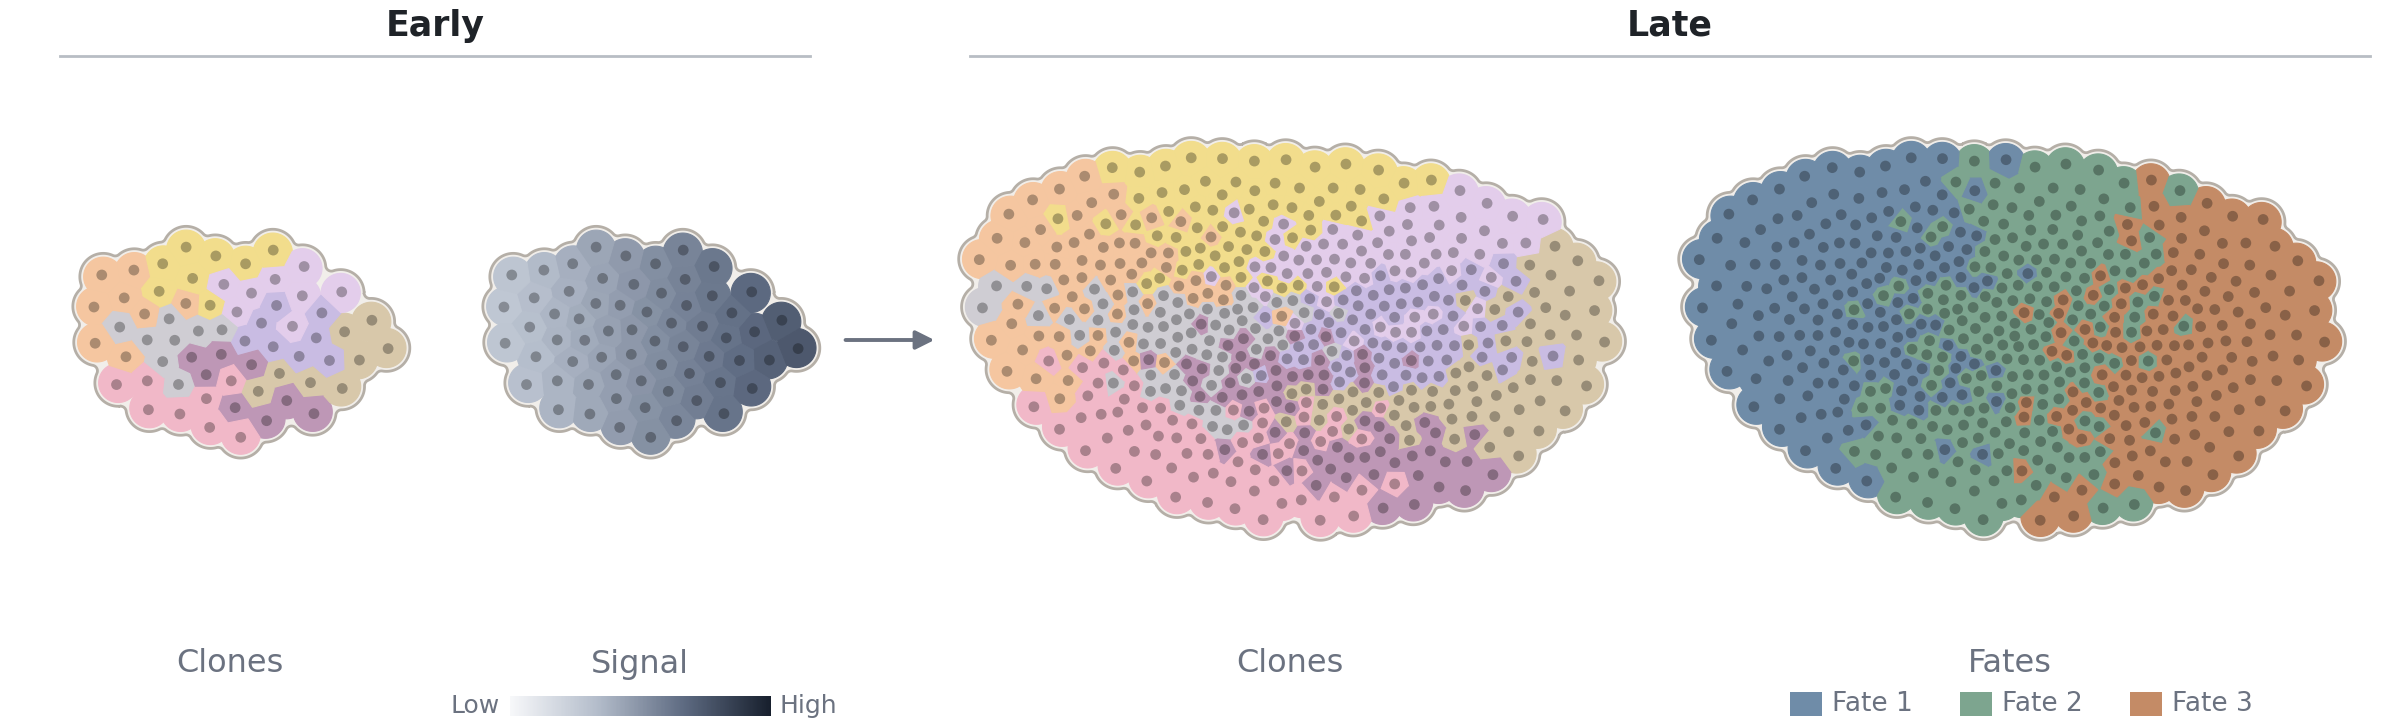
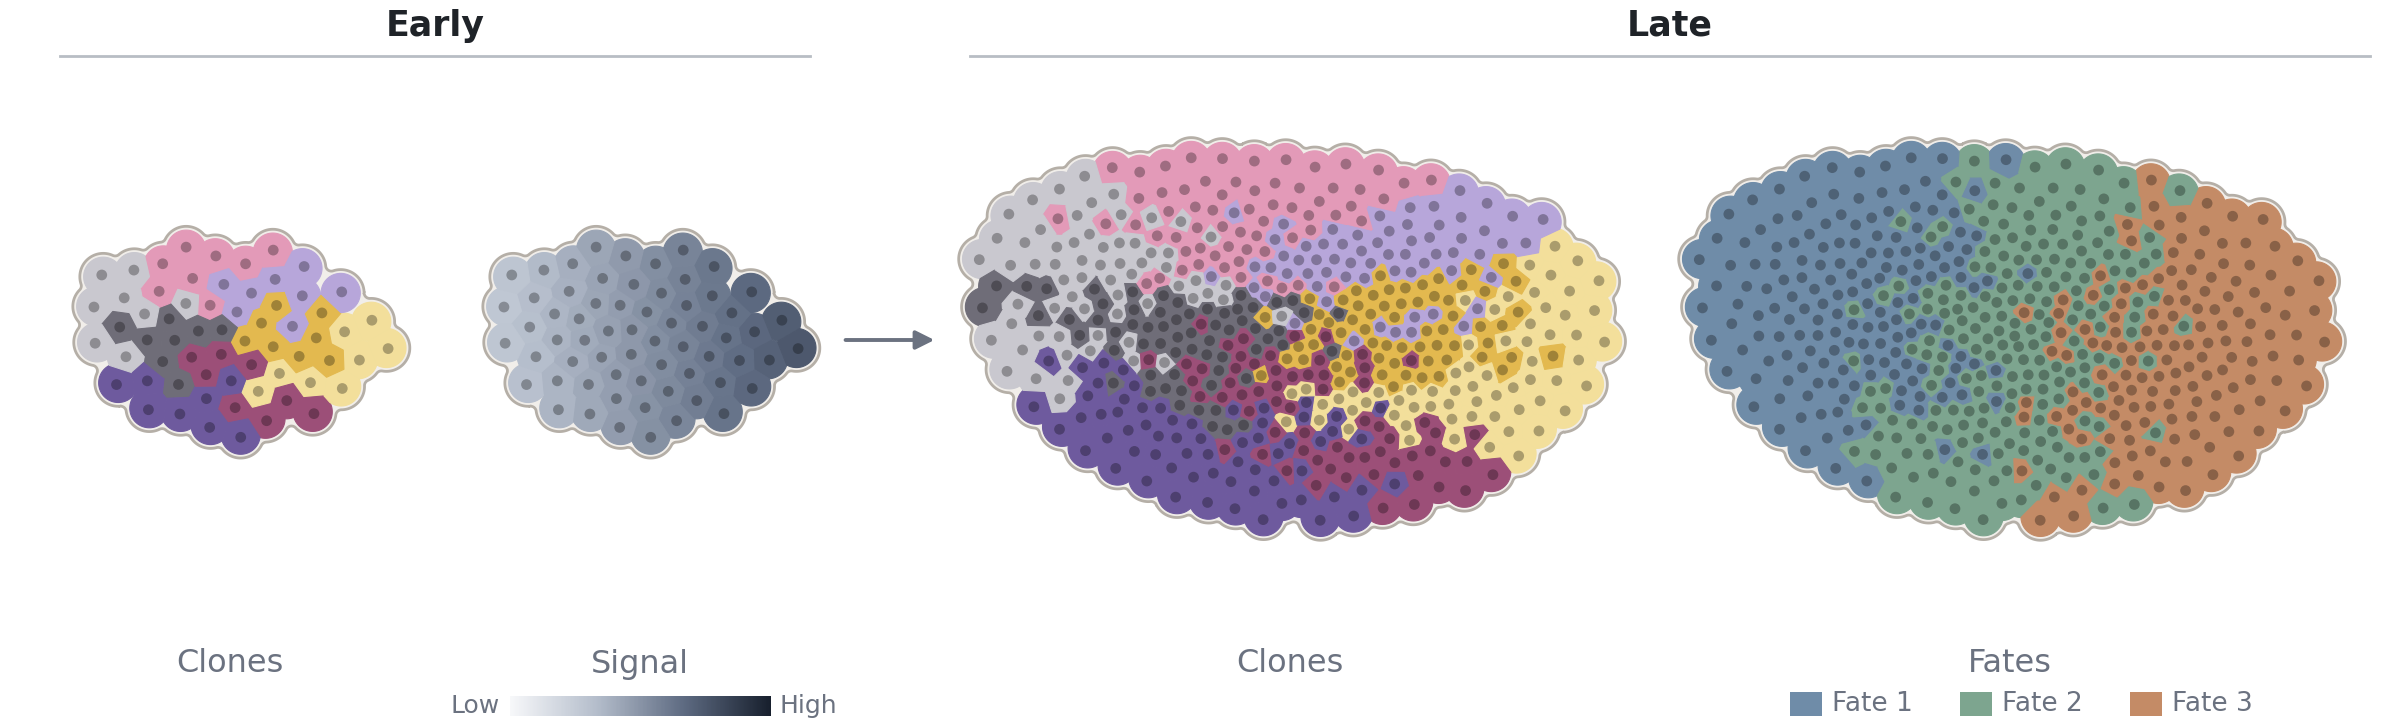
Part 3 stacks aligned with links over the planes; versioned bioRxiv links; QFM tutorial link; new clone palette

Changed region(s): [[0.375, 0.1833, 0.6875, 0.7639], [0.0312, 0.3056, 0.1875, 0.6417]]

diff --git a/bin/make_research_art.py b/bin/make_research_art.py
@@ -61,8 +61,10 @@ def tint(c, f=0.55):
 # cell identities (fates, and cell states in the transfer figure): the blue, green and red of the
 # research statement's Figure 2, then two more muted hues for states 4 and 5
 IDENT_M = ["#6F8CA8", "#7DA58F", "#C48B66", "#D2AE5E", "#8F82AE"]
-# clones: a set with no blue, green or red, so a clone never reads as a fate
-CLONE_SET = ["#C9BCE3", "#F1B8C8", "#F2DD8C", "#F5C6A0", "#D8C8AA", "#BE97B6", "#E3CDEB", "#CFCDD3"]
+# clones: four hue families that sit away from the fates' blue, green and red and the signal's slate
+# (gold, violet, rose, grey), each in a light and a dark tone. Sister clones get neighbouring indices
+# and grow side by side, so the order alternates hue and lightness to keep every border visible.
+CLONE_SET = ["#E3B94F", "#6E5A9E", "#E39AB8", "#C9C8CF", "#F3DF9B", "#9C4F78", "#B7A6DA", "#6F6D78"]
 plt.rcParams["font.family"] = "DejaVu Sans"
 W, H = 12.0, 3.6
 DPI = 200
@@ -384,16 +386,17 @@ for (lab, key), y in zip(SPECIES, ROW):
 
 
 def plane(k, a, b, x0, wa, wb, hb):
-    """A point on plane k: a runs along the plane, b runs into it (drawn up and to the right)."""
-    return x0 + 0.3 * k + wa * a + wb * b, ROW[k] - 0.1 + hb * b
+    """A point on plane k: a runs along the plane, b runs into it (drawn up and to the right). The
+    planes of a stack are aligned vertically, so a link between two planes is a vertical line."""
+    return x0 + wa * a + wb * b, ROW[k] - 0.1 + hb * b
 
 
 def Lk(k, a, b):
-    return plane(k, a, b, 1.8, 3.75, 0.55, 0.42)
+    return plane(k, a, b, 2.0, 3.85, 0.55, 0.42)
 
 
 def Rk(k, a, b):
-    return plane(k, a, b, 6.6, 3.45, 0.7, 0.62)
+    return plane(k, a, b, 6.85, 3.75, 0.7, 0.62)
 
 
 def draw_plane(P, k, key, z):
@@ -434,7 +437,7 @@ for k, (lab, key) in enumerate(SPECIES):
 for k in range(3):
     for g in (GA, GB):
         p, q = Lk(k, g[SPECIES[k][1]], TRACK_B), Lk(k + 1, g[SPECIES[k + 1][1]], TRACK_B)
-        ax.plot([p[0] + 0.16, q[0] + 0.16], [p[1] - 0.07, q[1] + 0.07], color=MUTED, lw=0.9, ls=(0, (2, 2)), zorder=1)
+        ax.plot([p[0] + 0.16, q[0] + 0.16], [p[1] - 0.07, q[1] + 0.07], color=MUTED, lw=0.9, ls=(0, (2, 2)), zorder=5.5)
 # each model organism proposes a different human element, from the element it has evidence for
 for k, j in zip(range(3), (2, 1, 0)):
     key = SPECIES[k][1]
@@ -452,7 +455,7 @@ ax.plot([p[0], q[0] + 0.02], [p[1] - 0.02, q[1] + 0.12], color=MUTED, lw=1.2, ls
 ax.plot([q[0] - 0.07, q[0] + 0.11], [q[1] + 0.05, q[1] + 0.23], color=MUTED, lw=2.0, zorder=7)
 ax.plot([q[0] - 0.07, q[0] + 0.11], [q[1] + 0.23, q[1] + 0.05], color=MUTED, lw=2.0, zorder=7)
 text(ax, q[0] - 0.1, ROW[3] - 0.26, "No human counterpart", fontsize=9, color=MUTED)
-text(ax, 3.9, 4.42, "Regulatory Elements", fontsize=12, color=INK)
+text(ax, 4.2, 4.42, "Regulatory Elements", fontsize=12, color=INK)
 
 # ---------------- right: a stack of embedding planes, one cluster per cell state ----------------
 STATES = [("State %d" % (j + 1), IDENT_M[j], ca, cb) for j, (ca, cb) in
@@ -466,18 +469,18 @@ for k, (lab, key) in enumerate(SPECIES):
         ca2, cb2 = ca + rs.normal(0, 0.025), cb + rs.normal(0, 0.04)
         cents[j] = Rk(k, ca2, cb2)
         if j in MISSING[key]:                                           # this species has no such state
-            ax.add_patch(Ellipse(cents[j], 0.5, 0.2, fc="none", ec=sc, lw=1.2, ls=(0, (1.5, 1.5)), zorder=11))
+            ax.add_patch(Ellipse(cents[j], 0.5, 0.2, fc="none", ec=sc, lw=1.2, ls=(0, (1.5, 1.5)), zorder=12))
             continue
         n = 28
         ua = np.clip(ca2 + rs.normal(0, 0.035, n), 0.03, 0.97)
         ub = np.clip(cb2 + rs.normal(0, 0.09, n), 0.06, 0.94)
         pts = np.array([Rk(k, u, v) for u, v in zip(ua, ub)])
-        ax.scatter(pts[:, 0], pts[:, 1], s=8, color=sc, edgecolors="none", zorder=10 - k)
+        ax.scatter(pts[:, 0], pts[:, 1], s=8, color=sc, edgecolors="none", zorder=11)
     CENT.append(cents)
 for ca, cb in zip(CENT, CENT[1:]):
     for j in range(len(STATES)):
-        ax.plot([ca[j][0], cb[j][0]], [ca[j][1], cb[j][1]], color=GREY, lw=0.9, ls=(0, (3, 2)), zorder=1)
-text(ax, 8.95, 4.42, "Mapped Cell States", fontsize=12, color=INK)
+        ax.plot([ca[j][0], cb[j][0]], [ca[j][1], cb[j][1]], color=MUTED, lw=0.9, ls=(0, (3, 2)), zorder=10)
+text(ax, 9.05, 4.42, "Mapped Cell States", fontsize=12, color=INK)
 fig.savefig(os.path.join(OUT, "transfer.png"), dpi=DPI, facecolor="white")
 plt.close(fig)
 print("wrote", sorted(os.listdir(OUT)))

diff --git a/_pages/software.md b/_pages/software.md
@@ -11,7 +11,7 @@ nav_order: 3
 
 <div class="software-item">
 <h3>QFM</h3>
-<p class="software-meta">R package · <a href="https://github.com/Kalhor-Lab/QFM">github.com/Kalhor-Lab/QFM</a> · <a href="https://kalhor-lab.github.io/QFM/">documentation and tutorials</a> · <a href="https://zenodo.org/records/7114804">Zenodo archive</a></p>
+<p class="software-meta">R package · <a href="https://github.com/Kalhor-Lab/QFM">github.com/Kalhor-Lab/QFM</a> · <a href="https://kalhor-lab.github.io/QFM/articles/basic_tutorial.html">documentation and tutorials</a> · <a href="https://zenodo.org/records/7114804">Zenodo archive</a></p>
 <p>Quantitative fate mapping from lineage barcodes. <strong>Phylotime</strong> reconstructs time-scaled cell phylogenies by maximum likelihood under a general model of barcode mutagenesis, and <strong>ICE-FASE</strong> infers the progenitor state hierarchy, commitment times, population sizes and commitment biases from them. Includes a simulator for cell phylogenies and lineage barcodes. Described in <a href="/publications/">Fang et al., <em>Cell</em> 2022</a>.</p>
 </div>
 
